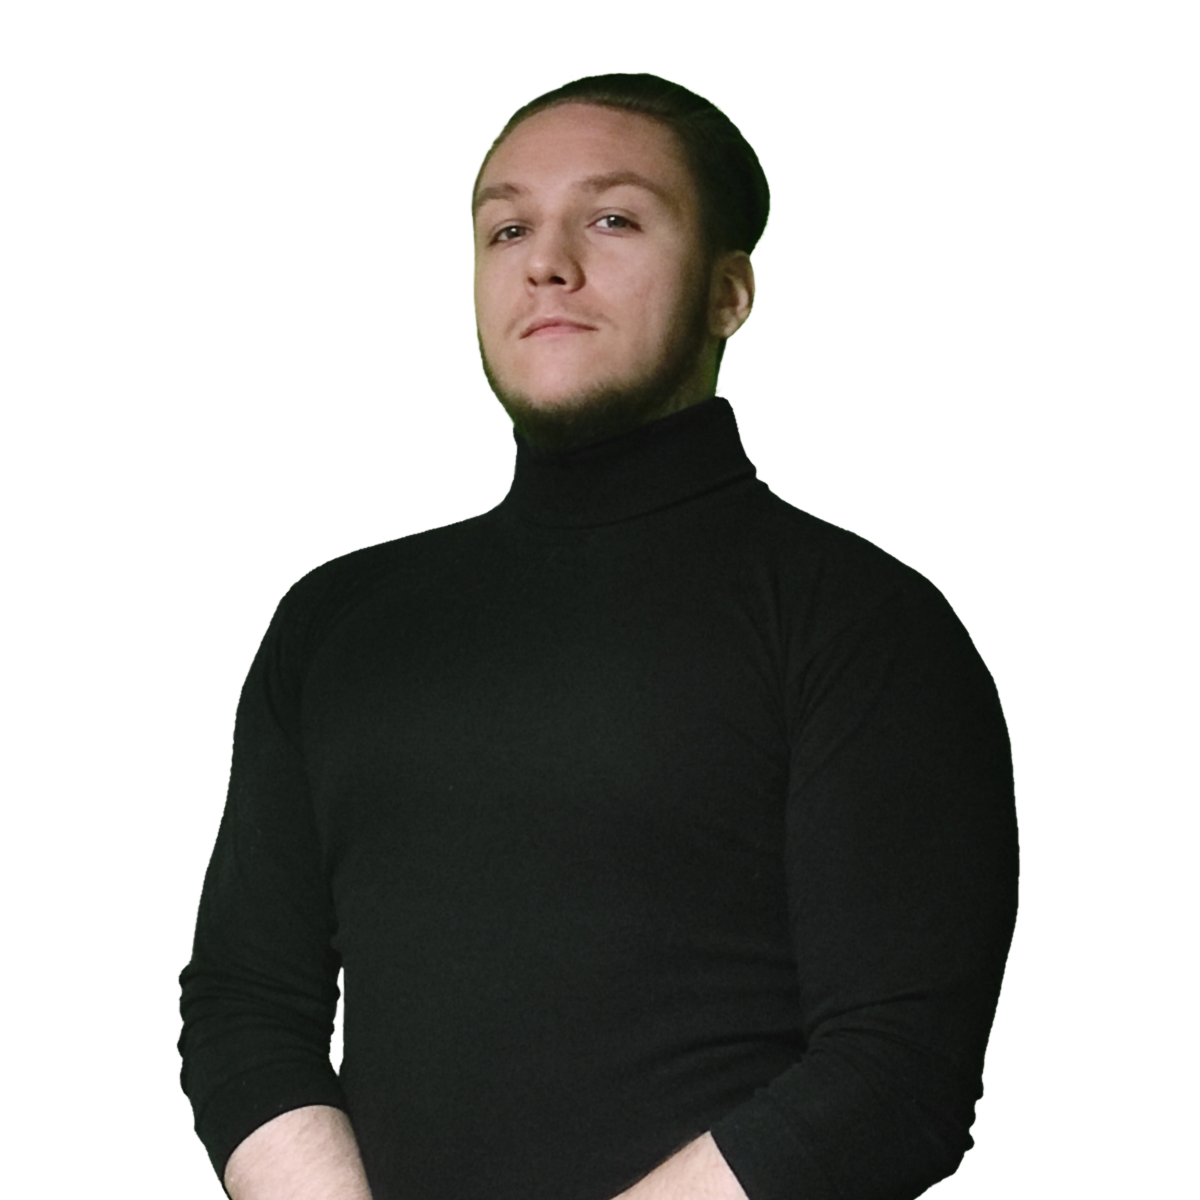
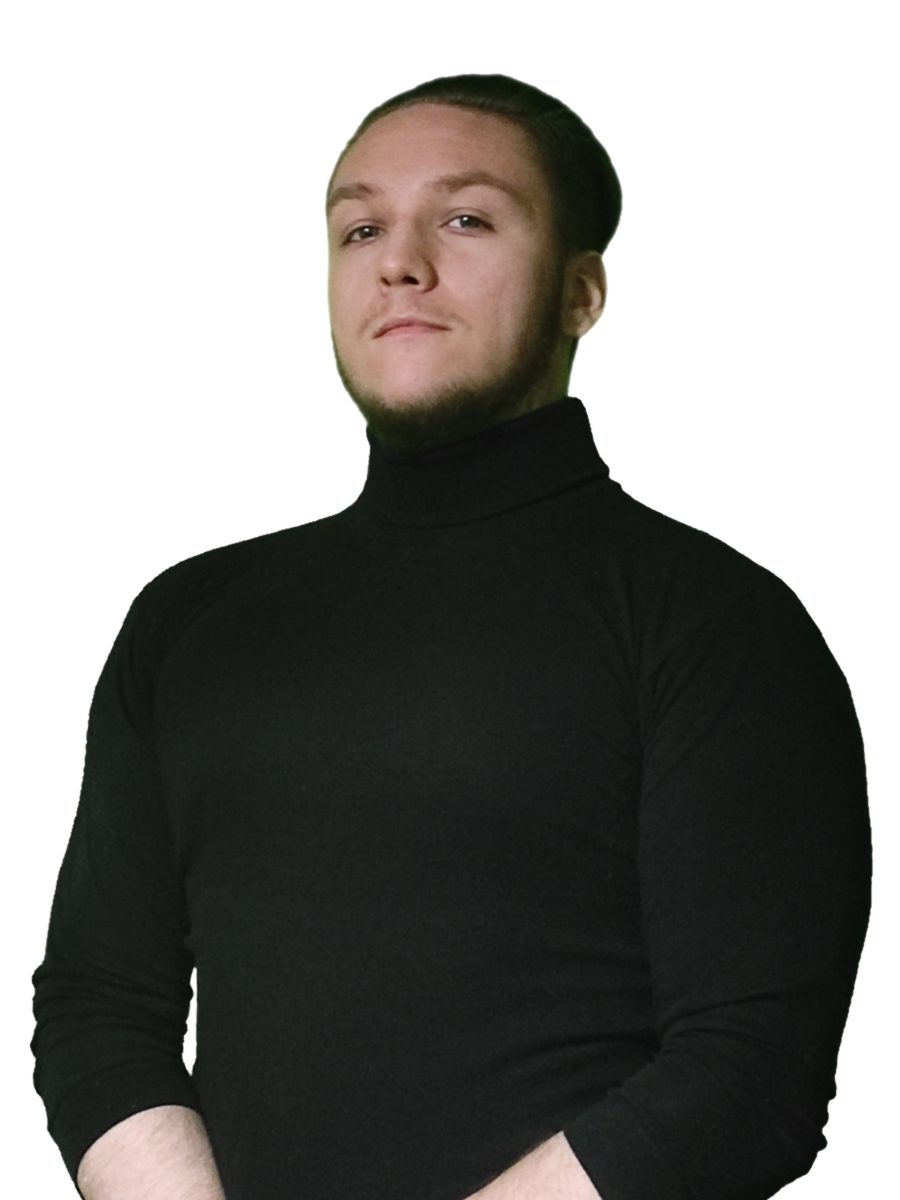
Feat: Longer description section in About Me with 'Read More' button, Fix: fixed some minor id bugs

diff --git a/src/Content/AboutMe/AboutMe.css b/src/Content/AboutMe/AboutMe.css
@@ -1,53 +1,97 @@
 #content #aboutMe {
   display: flex;
-  justify-content: center;
+  flex-direction: column;
+  flex-shrink: 0;
+  align-items: center;
   width: 100%;
-  height: 300px;
-  padding-top: 100px;
-  margin-bottom: 200px;
-  box-sizing: border-box;
+  height: auto;
+  padding-top: 120px;
+  margin-bottom: 100px;
+  overflow: hidden;
 }
-#content #aboutMe #container {
-  /* background-color: purple; */
+/* Short description */
+#content #aboutMe #aboutMeShortcontainer {
+  position: relative;
   display: flex;
+  flex-shrink: 0;
   width: 1200px;
-  height: 100%;
+  height: 360px;
 }
-#content #aboutMe #container #aboutMeShort {
+#content #aboutMe #aboutMeShortcontainer #aboutMeShort {
   display: flex;
   height: 300px;
   width: 100%;
 }
-#content #aboutMe #container #aboutMeShort img {
-  width: 300px;
-  height: 300px;
-  border-bottom: 2px solid var(--color-font);
-  border-radius: 30%;
-  box-shadow: inset 0px -120px 30px -100px var(--color-font);
+#content #aboutMe #aboutMeShortcontainer #aboutMeShort img {
+  width: 320px;
+  height: 360px;
+  object-fit: contain;
+  border-radius: 10%;
+  box-shadow: inset 0px -110px 30px -100px var(--color-font);
   box-sizing: border-box;
 }
-#content #aboutMe #container #aboutMeShort #aboutMeShortContainer {
-  width: calc(100% - 300px);
-  height: 300px;
+#content #aboutMe #aboutMeShortcontainer #aboutMeShort #aboutMeShortContainer {
+  display: flex;
+  flex-direction: column;
+  justify-content: center;
+  gap: 40px;
+  width: calc(100% - 320px);
+  height: 360px;
   padding-left: 50px;
 }
-#content #aboutMe #container #aboutMeShort #aboutMeShortContainer #aboutMeQuote {
-  height: 100px;
-  padding-top: 30px;
-  box-sizing: border-box;
+#content #aboutMe #aboutMeShortcontainer #aboutMeShort #aboutMeShortContainer #aboutMeQuote {
   text-align: left;
   color: var(--color-font);
   font-size: 42px;
   font-weight: 300;
   font-style: italic;
 }
-#content #aboutMe #container #aboutMeShort #aboutMeShortContainer #aboutMeText {
+#content #aboutMe #aboutMeShortcontainer #aboutMeShort #aboutMeShortContainer #aboutMeText {
   display: flex;
   align-items: center;
-  height: calc(100% - 100px);
   box-sizing: border-box;
   color: var(--color-font);
   text-align: left;
   font-size: 22px;
   font-weight: 300;
+}
+/* "Read More" button */
+#content #aboutMe #aboutMeButtonContainer {
+  position: relative;
+  display: flex;
+  flex-shrink: 0;
+  align-items: center;
+  justify-content: center;
+  width: 1200px;
+  height: 140px;
+}
+#content #aboutMe #aboutMeButtonContainer #aboutMeButton {
+  background-color: var(--color-navbar);
+  display: flex;
+  align-items: center;
+  justify-content: center;
+  width: 240px;
+  height: 48px;
+  border-radius: 16px;
+  border: 0px solid var(--color-accent);
+  color: var(--color-font);
+  font-size: 22px;
+  transition: border 0.05s ease-in-out, background-color 0.1s ease-in-out;
+}
+#content #aboutMe #aboutMeButtonContainer #aboutMeButton:hover {
+  border: 2px solid var(--color-accent);
+}
+#content #aboutMe #aboutMeButtonContainer #aboutMeButton:active {
+  background-color: var(--color-accent);
+}
+/* Long description */
+#content #aboutMe #aboutMeLongContainer {
+  position: relative;
+  display: flex;
+  flex-shrink: 0;
+  width: 1200px;
+  height: 1000px;
+  max-height: 0px;
+  overflow-y: hidden;
+  transition: max-height 1s ease-in-out;
 }

diff --git a/src/App.js b/src/App.js
@@ -1,4 +1,5 @@
 import { useState, useEffect } from 'react'
+import db from './data/lang.json'
 import './App.css';
 import Navbar from './Navbar/Navbar'
 import ThemePanel from './ThemePanel/ThemePanel'
@@ -13,6 +14,7 @@ function App() {
   const [accent, setAccent] = useState(0)
   const accents = ['blue', 'purple', 'green', 'yellow']
   const [themePanelOpened, setThemePanelOpened] = useState(false)
+  const [aboutMeLong, setAboutMeLong] = useState(false)
 
   useEffect (() => {
     document.documentElement.className = `${themes[theme]}-${accents[accent]}`
@@ -23,7 +25,7 @@ function App() {
     elementsToChange.forEach(element => {
       element.style.filter = "opacity(0)"
     })
-    document.getElementById('languageImage').style.filter = 'opacity(0)'
+    document.getElementById('navLanguageImage').style.filter = 'opacity(0)'
     setTimeout(() => {
       if (language == languages.length - 1) setLanguage(0)
       else setLanguage(language + 1)
@@ -31,7 +33,7 @@ function App() {
         elementsToChange.forEach(element => {
           element.style.filter = "opacity(1)"
         })
-        document.getElementById('languageImage').style.filter = 'opacity(1)'
+        document.getElementById('navLanguageImage').style.filter = 'opacity(1)'
       }, 200)
     }, 500)
   }
@@ -39,11 +41,11 @@ function App() {
     setThemePanelOpened(!themePanelOpened)
     if (themePanelOpened == false) {
       document.getElementById('themePanel').style.right = '0px'
-      document.getElementById('theme').style.width = 'calc(300px - 48px)'
+      document.getElementById('navThemeButton').style.width = 'calc(300px - 48px)'
     }
     else {
       document.getElementById('themePanel').style.right = '-330px'
-      document.getElementById('theme').style.width = '180px'
+      document.getElementById('navThemeButton').style.width = '180px'
     }
   }
   const changeTheme = (themeId) => {
@@ -54,12 +56,24 @@ function App() {
     setAccent(accentId.slice(accentId.indexOf('_') + 1))
     document.documentElement.className = `${themes[theme]}-${accents[accentId.slice(accentId.indexOf('_') + 1)]}`
   }
+  const changeAboutMeLong = () => {
+    setAboutMeLong(!aboutMeLong)
+    if (aboutMeLong == false) {
+      document.getElementById('aboutMeLongContainer').style.maxHeight = `1000px`
+      document.getElementById('aboutMeButton').innerText = `${db.language.aboutMe.readLess[language]}`
+    }
+    else {
+      document.getElementById('aboutMeLongContainer').style.maxHeight = '0px'
+      document.getElementById('aboutMeButton').innerText = `${db.language.aboutMe.readMore[language]}`
+      document.getElementById("aboutMe").scrollIntoView()      
+    }
+  }
 
   return (
     <div className="App">
       <Navbar language={language} changeLanguage={changeLanguage} switchThemePanel={switchThemePanel} />
       <ThemePanel language={language} theme={theme} accent={accent} changeTheme={changeTheme} changeAccent={changeAccent} />
-      <Content language={language}/>
+      <Content language={language} changeAboutMeLong={changeAboutMeLong}/>
     </div>
   );
 }

diff --git a/src/Navbar/Navbar.js b/src/Navbar/Navbar.js
@@ -8,10 +8,7 @@ const Navbar = (props) => {
   const goTo = (whereTo) => {
     if (whereTo == "greetings") document.getElementById("greetings").scrollIntoView()
     else if (whereTo == "aboutMe") document.getElementById("aboutMe").scrollIntoView()
-    else if (whereTo == "myProjects") {
-      document.getElementById("myProjects").scrollIntoView()
-      console.log('Go to myProjects')
-    }
+    else if (whereTo == "myProjects") document.getElementById("myProjects").scrollIntoView()
     else if (whereTo == "roadmap") document.getElementById("roadmap").scrollIntoView()
     else if (whereTo == "contact") document.getElementById("contact").scrollIntoView()
   }
@@ -19,44 +16,38 @@ const Navbar = (props) => {
   return (
     <nav>
       <div 
-        id="homeButton" 
+        id="navHomeButton" 
         className="navButton"
         onClick={() => goTo("greetings")}>
           <h4 className="languageChange">{db.language.navbar.greetings[props.language]}</h4>
       </div>
       <div 
-        id="aboutMeButton" 
+        id="navAboutMeButton" 
         className="navButton" 
         onClick={() => goTo("aboutMe")}>
           <h4 className="languageChange">{db.language.navbar.aboutMe[props.language]}</h4>
       </div>
       <div 
-        id="myProjectsButton" 
+        id="navMyProjectsButton" 
         className="navButton" 
         onClick={() => goTo("myProjects")}>
           <h4 className="languageChange">{db.language.navbar.myProjects[props.language]}</h4>
       </div>
-      {/* <div 
-        id="roadmapButton" 
-        className="navButton" 
-        onClick={() => goTo("roadmap")}>
-          <h4 className="languageChange">{db.language.navbar.whatNext[props.language]}</h4>
-      </div> */}
       <div 
-        id="contactButton" 
+        id="navContactButton" 
         className="navButton"
         onClick={() => goTo("contact")}>
           <h4 className="languageChange">{db.language.navbar.contact[props.language]}</h4>
       </div>
       <div 
-        id="languageButton" 
+        id="navLanguageButton" 
         className="navButton" 
         onClick={props.changeLanguage}>
           <h4 className="languageChange">{db.language.navbar.language[props.language]}</h4>
-          <img className="languageChange" id="languageImage" src={languageImage} alt="LanguageImage" />
+          <img className="languageChange" id="navLanguageImage" src={languageImage} alt="LanguageImage" />
       </div>
       <div 
-        id="themeButton" 
+        id="navThemeButton" 
         className="navButton" 
         onClick={props.switchThemePanel}>
           <h4 className="languageChange">{db.language.navbar.theme[props.language]}</h4>

diff --git a/src/Content/AboutMe/AboutMe.js b/src/Content/AboutMe/AboutMe.js
@@ -4,7 +4,7 @@ import './AboutMe.css'
 const AboutMe = (props) => {
   return (
     <div id="aboutMe">
-      <div id="container">
+      <div id="aboutMeShortcontainer">
         <div id="aboutMeShort">
           <img src="images/myPic.png" alt="myPic.png" />
           <div className="languageChange" id="aboutMeShortContainer">
@@ -12,7 +12,14 @@ const AboutMe = (props) => {
             <div id="aboutMeText">{db.language.aboutMe.aboutMeShort[props.language]}</div>
           </div>
         </div>
-        {/* <div id="aboutMeButton">Read More</div> */}
+      </div>
+      <div id="aboutMeLongContainer">
+        {db.language.loremIpsum}{db.language.loremIpsum}{db.language.loremIpsum}{db.language.loremIpsum}{db.language.loremIpsum}{db.language.loremIpsum}{db.language.loremIpsum}{db.language.loremIpsum}{db.language.loremIpsum}{db.language.loremIpsum}
+      </div>
+      <div id="aboutMeButtonContainer">
+        <div id="aboutMeButton" onClick={props.changeAboutMeLong}>
+          Read More
+        </div>
       </div>
     </div>
   )

diff --git a/src/Navbar/Navbar.css b/src/Navbar/Navbar.css
@@ -56,22 +56,23 @@ nav .navButton:active:after {
   transition-duration: 0.05s;
   transition-timing-function: ease-out;
 }
-nav #languageButton {
+nav #navLanguageButton {
   position: absolute;
   width: 180px;
   left: 0px;
 }
-nav #languageImage {
+nav #navLanguageImage {
   height: 24px;
   margin-left: 10px;
   margin-top: 4px;
 }
-nav #themeButton {
+nav #navThemeButton {
   position: absolute;
   width: 180px;
   right: 0px;
+  transition: width 0.5s ease-in-out;
 }
-nav #themeButton #themeAccentColors {
+nav #navThemeButton #themeAccentColors {
   background-color: var(--color-accent);
   position: relative;
   width: 16px;
@@ -85,7 +86,7 @@ nav #themeButton #themeAccentColors {
   transition-duration: 0.3s;
   transition-timing-function: ease-in-out;
 }
-nav #themeButton:hover #themeAccentColors {
+nav #navThemeButton:hover #themeAccentColors {
   width: 0px;
   height: 0px;
   margin-left: 0px;

diff --git a/src/Content/Content.js b/src/Content/Content.js
@@ -7,7 +7,7 @@ const Content = (props) => {
   return (
     <div id="content">
       <Greetings language={props.language} />
-      <AboutMe language={props.language}/>
+      <AboutMe language={props.language} changeAboutMeLong={props.changeAboutMeLong} />
       <Projects language={props.language} />
     </div>
   )

diff --git a/src/ThemePanel/ThemePanel.css b/src/ThemePanel/ThemePanel.css
@@ -11,8 +11,7 @@
   box-shadow: 0px 0px 10px 0px #000000;
   overflow: hidden;
   z-index: 1;
-  transition-property: right;
-  transition-duration: 0.5s;
+  transition: right 0.5s, background-color 0.5s 0.1s;
 }
 #themePanel .themePanelHeader {
   background-color: var(--color-navbar);
